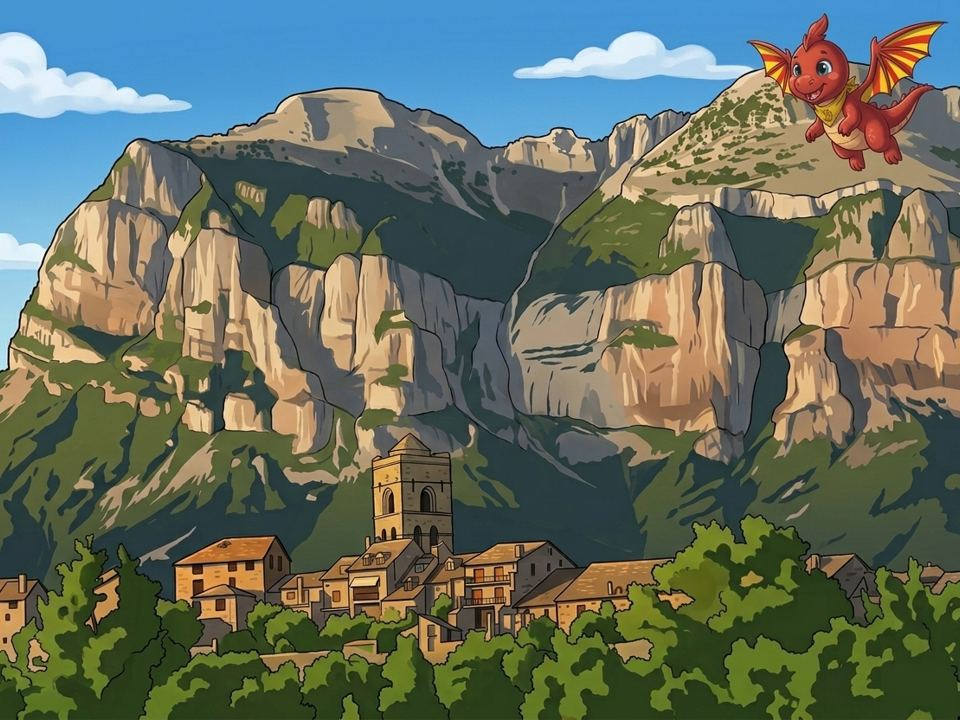
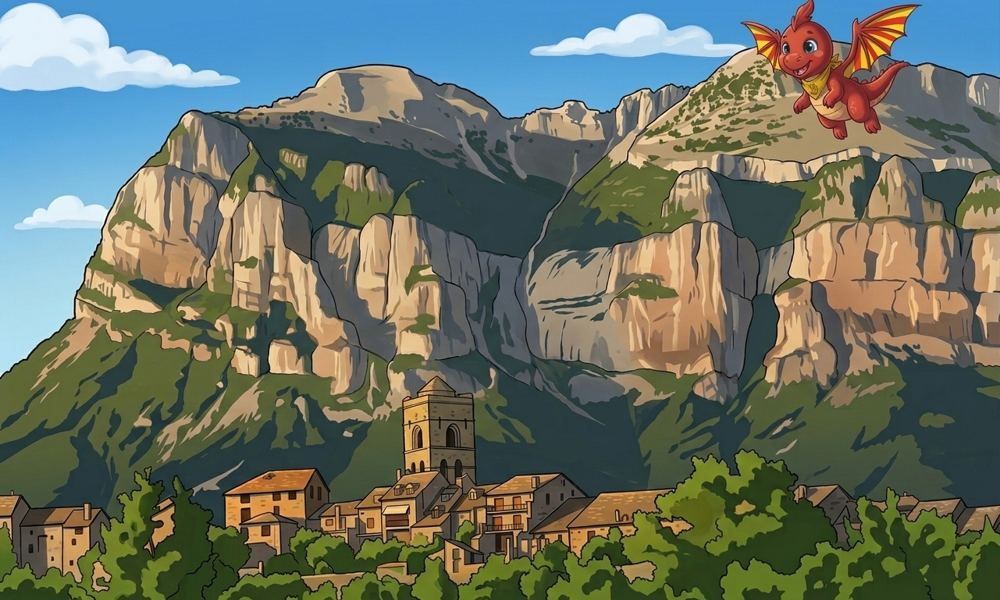
«Sobre el aragonés»: imágenes al azar y tarjeta que se da la vuelta
- Cada vez que se entra, las 6 imágenes se reparten al azar sin repetirse;
  en «¿Dónde se habla?» siempre sale L'Aínsa o Uesca.
- En vez del nombre del lugar, «¿Dónde está Dragolingüe?». Al tocar la imagen,
  la tarjeta gira y muestra el mapa de Aragón con un cartel de la localidad.
- Aínsa aparece como L'Aínsa.

Claude-Session: https://claude.ai/code/session_01AaARdZYrSbQc4eUt8iyHed

diff --git a/index.html b/index.html
@@ -68,9 +68,16 @@ body::before{content:"";position:fixed;inset:0 0 auto;height:env(safe-area-inset
 .dots i{width:9px;height:9px;border-radius:50%;background:var(--line)}
 .dots i.on{background:var(--rojo);width:22px;border-radius:99px}
 .about-card{flex:1;display:flex;flex-direction:column;gap:14px}
-.about-pic{position:relative;border-radius:22px;background:var(--monte-soft);aspect-ratio:4/3;display:grid;place-items:center;overflow:hidden}
-.about-pic .place{position:absolute;left:10px;bottom:10px;background:rgba(255,255,255,.92);color:var(--ink);font-weight:800;font-size:.8rem;padding:4px 10px;border-radius:99px}
-.about-pic img{width:100%;height:100%;object-fit:cover}
+.about-pic{position:relative;border-radius:22px;aspect-ratio:5/3;perspective:1200px;cursor:pointer;-webkit-tap-highlight-color:transparent}
+.flip-inner{position:relative;width:100%;height:100%;transition:transform .6s;transform-style:preserve-3d}
+.about-pic.flipped .flip-inner{transform:rotateY(180deg)}
+.face{position:absolute;inset:0;border-radius:22px;overflow:hidden;backface-visibility:hidden;-webkit-backface-visibility:hidden;background:var(--monte-soft)}
+.face img{width:100%;height:100%;object-fit:cover;display:block}
+.face.back{transform:rotateY(180deg)}
+.where{position:absolute;left:10px;bottom:10px;background:rgba(255,255,255,.92);color:var(--monte);font-weight:800;font-size:.78rem;padding:5px 10px;border-radius:99px;display:flex;gap:6px;align-items:center}
+.sign{position:absolute;right:14px;bottom:14px;background:#F6E2B3;border:3px solid #8C6A3C;border-radius:10px;padding:6px 14px;transform:rotate(-4deg);
+  font-family:var(--f-display);font-weight:800;font-size:1.25rem;color:#5A3A1A;text-align:center;line-height:1.1;box-shadow:0 4px 0 rgba(0,0,0,.25)}
+.sign small{display:block;font-family:var(--f-body, inherit);font-size:.72rem;font-weight:700;color:#8C6A3C}
 .about-pic .dr{width:58%}
 .about-card h1{font-size:1.7rem;color:var(--rojo)}
 .about-card .talk{display:flex;gap:10px;align-items:flex-start}
@@ -615,21 +622,38 @@ function renderWelcome() {
    Cada tarjeta puede llevar una imagen: pon en "img" la ruta (por ejemplo "web/img/ainsa.jpg") y en "place" el lugar.
    Mientras no haya imagen, se ve el dragón con el ánimo de "mood". */
 const ABOUT = [
-  { title: "¿Qué es el aragonés?", mood: "happy", img: "web/img/albarracin.jpg", place: "Albarracín",
+  { title: "¿Qué es el aragonés?", mood: "happy",
     text: "El aragonés es mi lengua: una lengua romance, hermana del castellano y del catalán, nacida del latín. Es la propia del norte de Aragón y viene del navarroaragonés que ya se hablaba en la Edad Media." },
-  { title: "¿Dónde se habla?", mood: "think", img: "web/img/ainsa.jpg", place: "Aínsa, en el Sobrarbe",
+  { title: "¿Dónde se habla?", mood: "think",
     text: "Sobre todo en los valles del Pirineo y en el Prepirineo de Huesca: Echo, Ansó, Panticosa, Bielsa, Chistau… Y cada vez más en ciudades como Zaragoza o Huesca, donde mucha gente lo aprende de nuevo." },
-  { title: "Muchas variedades", mood: "cheer", img: "web/img/huesca.jpg", place: "Uesca (Huesca)",
+  { title: "Muchas variedades", mood: "cheer",
     text: "Cada valle tiene su manera de hablarlo: el cheso en Echo, el patués en Benasque, el belsetán en Bielsa, el chistabín en Chistau… En esta app aprenderás el aragonés común, y te avisaré cuando una palabra se diga de otra forma." },
-  { title: "¿Cuánta gente lo habla?", mood: "think", img: "web/img/calatayud.jpg", place: "Calatayud",
+  { title: "¿Cuánta gente lo habla?", mood: "think",
     text: "En el censo de 2011, unas 56.000 personas dijeron conocerlo y unas 25.000, hablarlo. Hoy se calcula que lo usan a diario entre 10.000 y 12.000 personas. Es una lengua minoritaria y en retroceso: ¡por eso te necesito!",
     src: "Fuentes: censo de 2011; Dirección General de Política Lingüística (2017)." },
-  { title: "Una lengua con norma", mood: "think", img: "web/img/zaragoza.jpg", place: "Zaragoza",
+  { title: "Una lengua con norma", mood: "think",
     text: "Desde 2021 existe la Academia Aragonesa de la Lengua. En 2023 aprobó la ortografía oficial del aragonés, y fue la primera norma del Boletín Oficial de Aragón escrita en aragonés. Es la ortografía que usamos aquí." },
-  { title: "¿Por qué aprenderlo?", mood: "cheer", img: "web/img/teruel.jpg", place: "Teruel",
+  { title: "¿Por qué aprenderlo?", mood: "cheer",
     text: "Porque es parte de Aragón: está en los nombres de los pueblos, de los montes y en muchas palabras de nuestros abuelos. Y si hablas castellano, te resultará muy fácil de entender. ¿Empezamos?" },
 ];
-function renderAbout(i) {
+// Lugares donde aparece Dragolingüe. "ar" es el nombre en aragonés del cartel; "es", el castellano si cambia.
+const PLACES = {
+  ainsa: { ar: "L'Aínsa", es: "Aínsa" },
+  huesca: { ar: "Uesca", es: "Huesca" },
+  zaragoza: { ar: "Zaragoza" },
+  albarracin: { ar: "Albarracín" },
+  calatayud: { ar: "Calatayud" },
+  teruel: { ar: "Teruel" },
+};
+let aboutImgs = [];
+// Cada vez que se entra, reparte las 6 imágenes sin repetir. En «¿Dónde se habla?» (tarjeta 2) siempre L'Aínsa o Uesca.
+function pickAboutImgs() {
+  const where = Math.random() < 0.5 ? "ainsa" : "huesca";
+  const rest = shuffle(Object.keys(PLACES).filter(k => k !== where));
+  aboutImgs = ABOUT.map((_, k) => (k === 1 ? where : rest.shift()));
+}
+function renderAbout(i, keep) {
+  if (!keep || !aboutImgs.length) pickAboutImgs();
   window.scrollTo(0, 0);
   const c = ABOUT[i], last = i === ABOUT.length - 1;
   $app.className = "app";
@@ -637,7 +661,11 @@ function renderAbout(i) {
     <div class="about-top"><button class="icon-btn" id="ab-close" aria-label="Cerrar">${ICON.close}</button>
       <div class="dots">${ABOUT.map((_, k) => `<i class="${k === i ? "on" : ""}"></i>`).join("")}</div><span style="width:34px"></span></div>
     <article class="about-card">
-      <div class="about-pic">${c.img ? `<img src="${esc(c.img)}" alt="Dragolingüe en ${esc(c.place || "Aragón")}">${c.place ? `<span class="place">📍 ${esc(c.place)}</span>` : ""}` : `<div class="dr">${dragon(c.mood)}</div>`}</div>
+      ${(() => { const k = aboutImgs[i], P = PLACES[k]; return `<div class="about-pic" id="flip" role="button" tabindex="0" aria-label="¿Dónde está Dragolingüe? Toca la imagen para verlo en el mapa">
+        <div class="flip-inner">
+          <div class="face front"><img src="web/img/${k}.jpg" alt="Dragolingüe de paseo por Aragón"><span class="where">¿Dónde está Dragolingüe? <span aria-hidden="true">↻</span></span></div>
+          <div class="face back"><img src="web/img/mapa-${k}.jpg" alt="Mapa de Aragón con una chincheta roja"><div class="sign">${esc(P.ar)}${P.es ? `<small>${esc(P.es)}</small>` : ""}</div></div>
+        </div></div>`; })()}
       <h1>${esc(c.title)}</h1>
       <div class="talk"><div class="mini">${dragon("happy")}</div><p>${esc(c.text)}</p></div>
       ${c.src ? `<p class="src">${esc(c.src)}</p>` : ""}
@@ -647,9 +675,13 @@ function renderAbout(i) {
       <button class="big-btn" id="ab-next">${last ? "¡Aprende aragonés!" : "Siguiente"}</button>
     </div></main>`;
   $app.querySelector("#ab-close").onclick = () => (S.welcomed ? renderHome() : renderWelcome());
-  const p = $app.querySelector("#ab-prev"); if (p) p.onclick = () => renderAbout(i - 1);
+  const fl = $app.querySelector("#flip");
+  const flip = () => fl.classList.toggle("flipped");
+  fl.onclick = flip;
+  fl.onkeydown = e => { if (e.key === "Enter" || e.key === " ") { e.preventDefault(); flip(); } };
+  const p = $app.querySelector("#ab-prev"); if (p) p.onclick = () => renderAbout(i - 1, true);
   $app.querySelector("#ab-next").onclick = () => {
-    if (last) { S.welcomed = true; save(); tab = "learn"; renderHome(); } else renderAbout(i + 1);
+    if (last) { S.welcomed = true; save(); tab = "learn"; renderHome(); } else renderAbout(i + 1, true);
   };
 }
 

diff --git a/sw.js b/sw.js
@@ -1,6 +1,6 @@
 // Service worker de Dragolingüe: permite usar la app sin conexión.
 // Primero intenta la red (así siempre llegan las correcciones del contenido) y, si no hay, usa la copia guardada.
-const CACHE = 'dragolingue-v3';
+const CACHE = 'dragolingue-v4';
 const SHELL = ['./', 'index.html', 'manifest.webmanifest', 'src/content/contenido.json', 'web/icon-192.png', 'web/icon-512.png', 'web/logo.svg', 'web/img/dragolingue.jpg'];
 
 self.addEventListener('install', e => {
